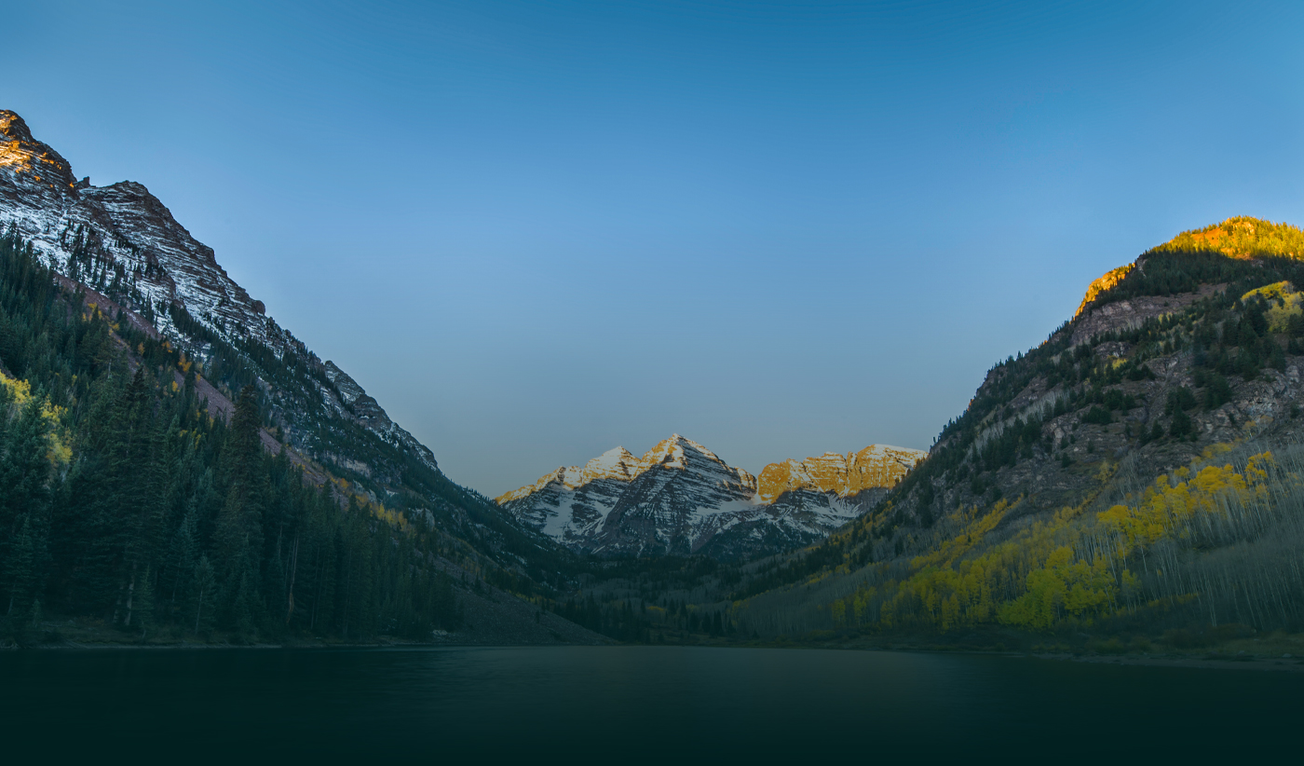
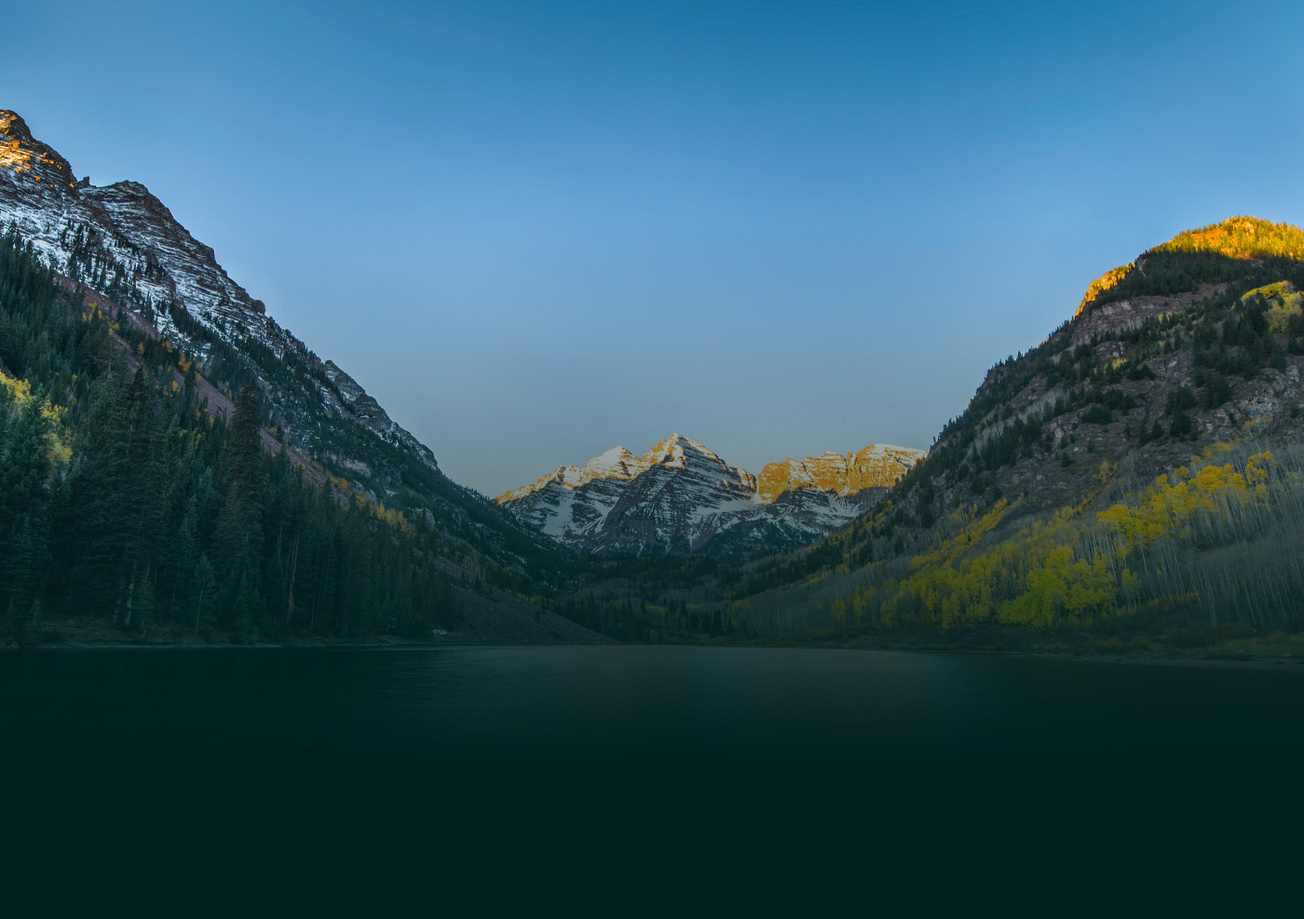
push

Changed region(s): [[0.0, 0.1217, 1.0, 0.882], [0.1536, 0.6083, 0.1843, 0.6691]]

diff --git a/wp-content/themes/fang/style.css b/wp-content/themes/fang/style.css
@@ -1,3 +1,3 @@
 /*! Css Main Stylesheet isn't meant to update, please use the scss partials in /scss *//*! Theme Name:Starter
-		Author: Garrett Cullen */*{margin:0;padding:0;outline:none}a{outline:none}a img{border:none}textarea{resize:none}*,*:before,*:after{box-sizing:border-box}html{-webkit-text-size-adjust:100%}body{-webkit-font-smoothing:antialiased;-moz-osx-font-smoothing:grayscale;text-shadow:1px 1px 1px rgba(0,0,0,0.05);line-height:1}body .gform_wrapper .gform_validation_container{display:none}.validation_error{display:none}body img.gform_ajax_spinner{display:none !important}header,section,nav,footer{display:block}section{z-index:1;position:relative}input,textarea{-webkit-appearance:none;border-radius:0}.slick-slider{position:relative;display:block;box-sizing:border-box;-webkit-user-select:none;-moz-user-select:none;-ms-user-select:none;user-select:none;-webkit-touch-callout:none;-khtml-user-select:none;touch-action:pan-y;-webkit-tap-highlight-color:transparent}.slick-list{position:relative;display:block;overflow:hidden;margin:0;padding:0}.slick-list:focus{outline:none}.slick-list.dragging{cursor:pointer;cursor:hand}.slick-slider .slick-track,.slick-slider .slick-list{-webkit-transform:translate3d(0, 0, 0);transform:translate3d(0, 0, 0)}.slick-track{position:relative;top:0;left:0;display:block;margin-left:auto;margin-right:auto}.slick-track:before,.slick-track:after{display:table;content:''}.slick-track:after{clear:both}.slick-loading .slick-track{visibility:hidden}.slick-slide{display:none;float:left;height:100%;min-height:1px}[dir='rtl'] .slick-slide{float:right}.slick-slide img{display:block}.slick-slide.slick-loading img{display:none}.slick-slide.dragging img{pointer-events:none}.slick-initialized .slick-slide{display:block}.slick-loading .slick-slide{visibility:hidden}.slick-vertical .slick-slide{display:block;height:auto;border:1px solid transparent}.slick-arrow.slick-hidden{display:none}.slick-prev,.slick-next{font-size:0;line-height:0;position:absolute;top:50%;display:block;width:20px;height:20px;padding:0;-webkit-transform:translate(0, -50%);transform:translate(0, -50%);cursor:pointer;color:transparent;border:none;outline:none;background:transparent}.slick-prev:hover,.slick-prev:focus,.slick-next:hover,.slick-next:focus{color:transparent;outline:none;background:transparent}.slick-prev:hover:before,.slick-prev:focus:before,.slick-next:hover:before,.slick-next:focus:before{opacity:1}.slick-prev.slick-disabled:before,.slick-next.slick-disabled:before{opacity:.25}.slick-prev:before,.slick-next:before{font-family:arial;font-size:20px;line-height:1;opacity:.75;color:white;-webkit-font-smoothing:antialiased;-moz-osx-font-smoothing:grayscale}.slick-prev{left:-25px}[dir='rtl'] .slick-prev{right:-25px;left:auto}.slick-prev:before{content:'←'}[dir='rtl'] .slick-prev:before{content:'→'}.slick-next{right:-25px}[dir='rtl'] .slick-next{right:auto;left:-25px}.slick-next:before{content:'→'}[dir='rtl'] .slick-next:before{content:'←'}.slick-dotted.slick-slider{margin-bottom:0px}.slick-dots{position:absolute;bottom:-25px;display:block;width:100%;padding:0;margin:0;list-style:none;text-align:center}.slick-dots li{position:relative;display:inline-block;width:20px;height:20px;margin:0 5px;padding:0;cursor:pointer}.slick-dots li button{font-size:0;line-height:0;display:block;width:20px;height:20px;padding:5px;cursor:pointer;color:transparent;border:0;outline:none;background:transparent}.slick-dots li button:hover,.slick-dots li button:focus{outline:none}.slick-dots li button:hover:before,.slick-dots li button:focus:before{opacity:1}.slick-dots li button:before{font-family:arial;font-size:6px;line-height:20px;position:absolute;top:0;left:0;width:20px;height:20px;content:'•';text-align:center;opacity:.25;color:black;-webkit-font-smoothing:antialiased;-moz-osx-font-smoothing:grayscale}.slick-dots li.slick-active button:before{opacity:.75;color:black}.alignleft,img.alignleft{display:inline;float:left;margin-right:24px;margin-top:4px}.alignright,img.alignright{display:inline;float:right;margin-left:24px;margin-top:4px}.aligncenter,img.aligncenter{clear:both;display:block;margin-left:auto;margin-right:auto}img.alignleft,img.alignright,img.aligncenter{margin-bottom:12px;max-width:100%;height:auto}h1,h2,h3,h4{font-style:normal;font-weight:300}.gform_wrapper ul li ::-webkit-input-placeholder{color:#000}.gform_wrapper ul li ::-moz-placeholder{color:#000}.gform_wrapper ul li :-moz-placeholder{color:#000}.gform_wrapper ul li :-ms-input-placeholder{color:#000}.gform_wrapper ul li ::-moz-placeholder{opacity:1}a.button{background:#ff9d1f;font-family:"Raleway",sans-serif;text-decoration:none;color:#fff;text-transform:uppercase;display:inline-block;letter-spacing:0.12em;font-size:15px;font-weight:800;padding:32px 30px;transition:all 200ms ease-in-out}a.button:hover{background:#036e4a}.content{font-family:"Unna",serif;font-size:21px}.content p,.content ul,.content ol{line-height:32px;margin-bottom:32px}@media screen and (max-width: 1200px){a.button{font-size:12px;padding:27px 40px}}@media screen and (max-width: 767px){.alignleft,.alignright,.aligncenter,img.alignleft,img.alignright,img.aligncenter{margin:4px auto 0px;float:none;max-width:100%;height:auto}}header{position:absolute;top:0;left:0;z-index:5;padding:0 61px 0 50px;height:113px;display:flex;align-items:center;width:100%}.header_left{flex-basis:320px}.header_left a.logo{display:block;padding-top:4px}.header_left a.logo img{width:320px;height:42px}.header_right{flex-grow:1;display:flex;justify-content:flex-end}.header_right .free_consult{display:flex;align-items:center}.header_right .free_consult span.free_consult_title{text-transform:uppercase;font-family:"Raleway",sans-serif;font-weight:800;font-size:15px;letter-spacing:0.12em;color:#012d2d}.header_right .free_consult span.free_consult_title:after{content:"";display:inline-block;width:6px;height:6px;vertical-align:top;background:#ff9d1f;border-radius:50%;margin:4px 12px 0 15px}.header_right .free_consult a.phone{color:#fff;text-decoration:none;font-family:"Unna",serif;font-size:38px;margin-right:31px}.header_right .menu_wrapper{margin-top:24px}.mobile_bar{display:none}.menu_wrapper{width:42px}.menu_wrapper span{display:block}.menu_wrapper span.menu_bar{width:100%;height:3px;background:#ffbe3d;margin-bottom:8px}.menu_wrapper span.menu_bar:last-of-type{margin-bottom:0}.menu_wrapper span.menu_title{color:#fff;text-transform:uppercase;font-family:"Raleway",sans-serif;font-weight:800;font-size:12px;letter-spacing:0.12em}@media screen and (max-width: 1450px){header{padding:0 50px}.header_left a.logo{margin-top:15px}}@media screen and (max-width: 1066px){header{padding:0 35px}.header_left a.logo{margin-top:0}.header_right .free_consult{flex-direction:column;align-items:flex-end;margin-right:29px}.header_right .free_consult span.free_consult_title:after{display:none}.header_right .free_consult a.phone{font-size:33px;margin-right:0;margin-top:2px}.header_right .menu_wrapper{margin:0}}@media screen and (max-width: 767px){header{height:auto;background:#001f1f;padding:0;flex-wrap:wrap;position:static}.header_left,.header_right{height:81px}.header_left{flex-basis:calc(100% - 62px);flex-grow:0;display:flex;align-items:center;padding-left:20px}.header_left a.logo{display:block}.header_left a.logo img{height:auto;width:100%;max-width:295px;padding-right:20px}.header_right{flex-basis:40px;padding-right:20px;align-items:center;flex-grow:0}.header_right .free_consult{display:none}.mobile_bar{display:flex;height:70px;flex-basis:100%;background:#fff;justify-content:center;align-items:center;padding:0 10px}.mobile_bar span.free_consult_title{text-transform:uppercase;color:#036e4a;font-size:13px;letter-spacing:0.12em;font-family:"Raleway",sans-serif;font-weight:800;display:block;margin-top:2px}.mobile_bar span.free_consult_title:after{content:"";display:inline-block;width:6px;height:6px;vertical-align:top;background:#ff9d1f;border-radius:50%;margin:4px 5px}.mobile_bar a.phone{text-decoration:none;font-size:35px;color:#001f1f;font-family:"Unna",serif;display:block}}@media screen and (max-width: 399px){.mobile_bar span.free_consult_title{display:none}}#section_one{background:#fff;height:985px;z-index:0;padding-left:50px;padding-right:50px}.sec_one_inner{text-align:center;position:relative;z-index:3;padding:157px 0 0}.sec_one_inner span{color:#fff;display:block}.sec_one_inner span.small_header{font-family:"Unna",serif;font-weight:400;font-size:36px;letter-spacing:0.04em}.sec_one_inner span.large_header{font-family:"Raleway",sans-serif;font-weight:800;font-size:150px;text-transform:uppercase;margin:17px 0 25px}.sec_one_inner img.mouse{display:block;margin:35px auto 0}.parallax{overflow:hidden;position:absolute;top:0;left:0;height:985px;width:100%}.layer{width:100%;height:985px;position:fixed;top:0;left:0}.layer_bg{background:url(/wp-content/themes/fang/images/hero_img_background_desktop.jpg) bottom center;background-size:cover}.layer_1{background:url(/wp-content/themes/fang/images/hero_img_middleground_desktop.png) bottom center;background-size:cover;z-index:1}.layer_2{background:url(/wp-content/themes/fang/images/hero_img_foreground_desktop.png) bottom center;background-size:cover;z-index:2}.sec_one_bottom{display:flex;justify-content:space-between;max-width:1650px;margin:78px auto 0}.sec_one_left{flex-basis:870px}.sec_one_slider{display:flex;justify-content:space-between;margin-top:146px}.sec_one_single_slide{text-align:left;flex-basis:45%}.sec_one_single_slide span{display:block}.sec_one_single_slide span.sec_one_slide_title{color:#ff9d1f;text-transform:uppercase;font-family:"Raleway",sans-serif;font-weight:900;font-size:17px;line-height:21px;letter-spacing:0.12em;margin-bottom:30px}.sec_one_single_slide span.sec_one_slide_title br{display:none}.sec_one_single_slide span.sec_one_slide_description{color:#fff;font-family:"Raleway",sans-serif;font-weight:400;letter-spacing:0.06em;line-height:24px}.sec_one_single_slide span.sec_one_slide_description strong{font-weight:700}.play_wrapper a{display:flex;align-items:center;text-decoration:none}.play_wrapper .learn_wrapper{margin-right:-20px;position:relative;z-index:2;margin-top:35px}.play_wrapper .learn_wrapper span.learn_title{font-family:"Raleway",sans-serif;font-weight:400;font-size:16px;font-weight:900;letter-spacing:0.14em;text-transform:uppercase;display:block;margin-bottom:7px;color:#fff}.play_wrapper .learn_wrapper img{width:230px;height:8px}.play_wrapper .learn_wrapper.mobile{display:none}.play_wrapper .play_button_wrapper{width:300px;height:300px;display:flex;justify-content:center;align-items:center;position:relative}.play_wrapper .play_button_wrapper:before{content:"";display:block;width:300px;height:300px;border-radius:50%;position:absolute;top:0;left:0;background:rgba(250,250,250,0.2);-webkit-transform:scale(1);transform:scale(1);box-shadow:0px 0px 60px 1px rgba(0,0,0,0.55)}.play_wrapper .play_button_wrapper .play_img_overlay{position:relative;z-index:1}.play_wrapper .play_button_wrapper .play_img_overlay img{border-radius:50%;box-shadow:0px 0px 22px 1px rgba(0,0,0,0.25)}.play_wrapper .play_button_wrapper .play_button{width:95px;height:95px;background:#fff;border-radius:50%;position:absolute;top:100px;left:100px;z-index:1;display:flex;justify-content:center;align-items:center}.play_wrapper .play_button_wrapper .play_button:before{content:"";display:block;border-top:8px solid transparent;border-bottom:8px solid transparent;border-left:11px solid #001f1f}a.button.mobile{display:none}@media screen and (max-width: 1540px){.sec_one_slider{margin-top:120px}.play_wrapper .play_button_wrapper{width:247px;height:247px}.play_wrapper .play_button_wrapper:before{width:247px;height:247px}.play_wrapper .play_button_wrapper .play_img_overlay img{width:200px;height:200px}.play_wrapper .play_button_wrapper .play_button{width:80px;height:80px;top:83px;left:83px}}@media screen and (max-width: 1450px){#section_one,.parallax,.layer{height:862px}.sec_one_inner{padding:142px 0 0}.sec_one_inner span.large_header{font-size:122px;margin:23px 0 27px}.sec_one_bottom{margin:42px auto 0;padding-left:4%}.sec_one_left{flex-basis:52%}.sec_one_slider{justify-content:flex-start;margin-top:111px}.sec_one_single_slide{flex-basis:41%}.sec_one_single_slide:first-of-type{margin-right:10%}.sec_one_single_slide span.sec_one_slide_title{margin-bottom:16px}.play_wrapper .learn_wrapper{margin-top:19px}}@media screen and (max-width: 1345px){#section_one,.parallax,.layer{height:872px}}@media screen and (max-width: 1200px){#section_one{background:url(/wp-content/themes/fang/images/1200.jpg) top center no-repeat;background-size:cover;height:987px;padding-left:0;padding-right:0}.parallax,.layer{display:none}.sec_one_inner{padding:150px 0 0}.sec_one_inner span.small_header{font-size:32px}.sec_one_inner span.large_header{font-size:95px;margin:11px 0 18px}.sec_one_inner img.mouse{display:none}.sec_one_bottom{flex-wrap:wrap;padding-left:70px;padding-right:70px;margin:100px auto 0;max-width:775px}.sec_one_left{order:2;flex-basis:100%}.sec_one_right{order:1;flex-basis:100%;display:flex;justify-content:center}.sec_one_slider{justify-content:space-between;margin-top:86px}.sec_one_single_slide{flex-basis:42%}.sec_one_single_slide:first-of-type{margin-right:0}.sec_one_single_slide span.sec_one_slide_title{max-width:240px}.sec_one_single_slide span.sec_one_slide_title br{display:inline-block}.play_wrapper a{position:relative}.play_wrapper .learn_wrapper.desktop{display:none}.play_wrapper .learn_wrapper.mobile{display:block;position:relative;overflow:hidden;position:absolute;top:90px}.play_wrapper .learn_wrapper.mobile span.learn_title{margin-bottom:20px}.play_wrapper .learn_wrapper.mobile img{width:151px;height:8px;position:absolute;bottom:0;left:-15px}.play_wrapper .learn_wrapper.mobile.one{left:-121px}.play_wrapper .learn_wrapper.mobile.two{right:-79px}.play_wrapper .learn_wrapper.mobile.two img{left:-24px}}@media screen and (max-width: 1130px){#section_one{z-index:2}}@media screen and (max-width: 1066px){#section_one{background:url(/wp-content/themes/fang/images/tablet-new.jpg) center center no-repeat;background-size:cover;height:987px}}@media screen and (max-width: 767px){.sec_one_inner{padding:43px 0 0}.sec_one_inner span.small_header{font-size:26px}.sec_one_inner span.large_header{font-size:75px;line-height:66px;max-width:360px;margin:11px auto 27px}a.button.desktop{display:none}a.button.mobile{display:inline-block;font-size:15px;padding:31px 40px}.sec_one_bottom{margin:79px auto 0}.play_wrapper{position:relative;right:-11px}.play_wrapper .learn_wrapper.mobile{top:65px}.play_wrapper .learn_wrapper.mobile span.learn_title{font-size:12px;margin-bottom:14px}.play_wrapper .learn_wrapper.mobile img{width:122px}.play_wrapper .learn_wrapper.mobile.one{left:-90px}.play_wrapper .learn_wrapper.mobile.two{right:-40px}.play_wrapper .play_button_wrapper{width:183px;height:183px}.play_wrapper .play_button_wrapper:before{width:183px;height:183px}.play_wrapper .play_button_wrapper .play_img_overlay img{width:146px;height:146px}.play_wrapper .play_button_wrapper .play_button{width:57px;height:57px;top:63px;left:63px}.play_wrapper .play_button_wrapper .play_button:before{border-top:6px solid transparent;border-bottom:6px solid transparent;border-left:10px solid #001f1f}.sec_one_left{flex-basis:auto;width:100%}.sec_one_slider{margin-top:63px;display:block;width:100%}.sec_one_slider .slick-dots{bottom:-35px}.sec_one_slider .slick-dots li.slick-active button:before{color:#ffbe3d}.sec_one_slider .slick-dots li:hover button:before{color:#ffbe3d}.sec_one_slider .slick-dots li{margin:0;width:18px}.sec_one_slider .slick-dots li button{width:18px}.sec_one_slider .slick-dots li button:before{width:18px;opacity:1;color:#fff;font-size:23px}.sec_one_single_slide{text-align:center}.sec_one_single_slide span.sec_one_slide_title{margin-left:auto;margin-right:auto;max-width:260px}.sec_one_single_slide span.sec_one_slide_description{max-width:293px;margin-left:auto;margin-right:auto}.sec_one_bottom{padding-left:20px;padding-right:20px}}@media screen and (max-width: 690px){#section_one{background:url(/wp-content/themes/fang/images/mobile-bg.jpg) center center no-repeat;background-size:cover;height:862px}}@media screen and (max-width: 399px){a.button.mobile{padding:25px 12px;font-size:13px}}@media screen and (max-width: 365px){.play_wrapper .learn_wrapper.mobile{display:none}}#section_two{position:relative;overflow:hidden}#section_two .sec_two_bg{position:absolute;top:0;left:0;width:100%;height:100%;background:url(/wp-content/themes/fang/images/hero_img_background_desktop.jpg) top center;background-size:cover;background-attachment:fixed}.sec_two_inner{height:1148px;width:100%;background:url(/wp-content/themes/fang/images/content01_top_img_desktop.png) top center;background-size:cover;position:relative;z-index:1}.sec_two_content{max-width:1555px;margin:0px auto 0;padding:334px 70px 0;color:#fff}.sec_two_content h1{color:#fff;font-size:102px;line-height:82px;font-family:"Unna",serif;max-width:760px}.sec_two_content .sec_two_content_svg{margin:40px 0 75px}.sec_two_content .sec_two_content_svg svg{width:118px;height:23px}.sec_two_inner_content{max-width:765px}.sec_two_topog{position:absolute;bottom:-300px;right:-300px;z-index:1}.sec_two_topog svg{width:900px;height:915px}@media screen and (max-width: 1450px){.sec_two_inner{background:url(/wp-content/themes/fang/images/content01_top_img_laptop.png) top right;background-size:cover;height:1077px}.sec_two_content{max-width:1214px;padding:293px 70px 0}.sec_two_content .sec_two_content_svg{margin:40px 0 65px}.sec_two_topog{bottom:-277px;right:-282px}.sec_two_topog svg{width:840px;height:860px}.sec_two_inner_content{max-width:636px}}@media screen and (max-width: 1130px){#section_two{margin-top:-90px;overflow:hidden}#section_two .sec_two_bg{background:url(/wp-content/themes/fang/images/content01_bottom_img_tablet.jpg) top right no-repeat}.sec_two_inner{background:url(/wp-content/themes/fang/images/content01_top_img_tablet_two.png) top right;background-size:cover;height:1003px}.sec_two_content{padding:342px 70px 0;max-width:768px}.sec_two_content h1{font-size:76px;line-height:61px}.sec_two_content .sec_two_content_svg{margin:40px 0 23px}.sec_two_inner_content{position:relative;z-index:2}.sec_two_topog{bottom:-275px;right:-290px}.sec_two_topog svg{width:675px;height:675px}}@media screen and (max-width: 925px){.sec_two_inner{background:url(/wp-content/themes/fang/images/925.png) top right}}@media screen and (max-width: 815px){.sec_two_inner{background:url(/wp-content/themes/fang/images/content01_top_img_tablet.png) top right;background-size:cover}}#section_three{width:100%;height:1000px;background:#fff}
+		Author: Garrett Cullen */*{margin:0;padding:0;outline:none}a{outline:none}a img{border:none}textarea{resize:none}*,*:before,*:after{box-sizing:border-box}html{-webkit-text-size-adjust:100%}body{-webkit-font-smoothing:antialiased;-moz-osx-font-smoothing:grayscale;text-shadow:1px 1px 1px rgba(0,0,0,0.05);line-height:1}body .gform_wrapper .gform_validation_container{display:none}.validation_error{display:none}body img.gform_ajax_spinner{display:none !important}header,section,nav,footer{display:block}section{z-index:1;position:relative}input,textarea{-webkit-appearance:none;border-radius:0}.slick-slider{position:relative;display:block;box-sizing:border-box;-webkit-user-select:none;-moz-user-select:none;-ms-user-select:none;user-select:none;-webkit-touch-callout:none;-khtml-user-select:none;touch-action:pan-y;-webkit-tap-highlight-color:transparent}.slick-list{position:relative;display:block;overflow:hidden;margin:0;padding:0}.slick-list:focus{outline:none}.slick-list.dragging{cursor:pointer;cursor:hand}.slick-slider .slick-track,.slick-slider .slick-list{-webkit-transform:translate3d(0, 0, 0);transform:translate3d(0, 0, 0)}.slick-track{position:relative;top:0;left:0;display:block;margin-left:auto;margin-right:auto}.slick-track:before,.slick-track:after{display:table;content:''}.slick-track:after{clear:both}.slick-loading .slick-track{visibility:hidden}.slick-slide{display:none;float:left;height:100%;min-height:1px}[dir='rtl'] .slick-slide{float:right}.slick-slide img{display:block}.slick-slide.slick-loading img{display:none}.slick-slide.dragging img{pointer-events:none}.slick-initialized .slick-slide{display:block}.slick-loading .slick-slide{visibility:hidden}.slick-vertical .slick-slide{display:block;height:auto;border:1px solid transparent}.slick-arrow.slick-hidden{display:none}.slick-prev,.slick-next{font-size:0;line-height:0;position:absolute;top:50%;display:block;width:20px;height:20px;padding:0;-webkit-transform:translate(0, -50%);transform:translate(0, -50%);cursor:pointer;color:transparent;border:none;outline:none;background:transparent}.slick-prev:hover,.slick-prev:focus,.slick-next:hover,.slick-next:focus{color:transparent;outline:none;background:transparent}.slick-prev:hover:before,.slick-prev:focus:before,.slick-next:hover:before,.slick-next:focus:before{opacity:1}.slick-prev.slick-disabled:before,.slick-next.slick-disabled:before{opacity:.25}.slick-prev:before,.slick-next:before{font-family:arial;font-size:20px;line-height:1;opacity:.75;color:white;-webkit-font-smoothing:antialiased;-moz-osx-font-smoothing:grayscale}.slick-prev{left:-25px}[dir='rtl'] .slick-prev{right:-25px;left:auto}.slick-prev:before{content:'←'}[dir='rtl'] .slick-prev:before{content:'→'}.slick-next{right:-25px}[dir='rtl'] .slick-next{right:auto;left:-25px}.slick-next:before{content:'→'}[dir='rtl'] .slick-next:before{content:'←'}.slick-dotted.slick-slider{margin-bottom:0px}.slick-dots{position:absolute;bottom:-25px;display:block;width:100%;padding:0;margin:0;list-style:none;text-align:center}.slick-dots li{position:relative;display:inline-block;width:20px;height:20px;margin:0 5px;padding:0;cursor:pointer}.slick-dots li button{font-size:0;line-height:0;display:block;width:20px;height:20px;padding:5px;cursor:pointer;color:transparent;border:0;outline:none;background:transparent}.slick-dots li button:hover,.slick-dots li button:focus{outline:none}.slick-dots li button:hover:before,.slick-dots li button:focus:before{opacity:1}.slick-dots li button:before{font-family:arial;font-size:6px;line-height:20px;position:absolute;top:0;left:0;width:20px;height:20px;content:'•';text-align:center;opacity:.25;color:black;-webkit-font-smoothing:antialiased;-moz-osx-font-smoothing:grayscale}.slick-dots li.slick-active button:before{opacity:.75;color:black}.alignleft,img.alignleft{display:inline;float:left;margin-right:24px;margin-top:4px}.alignright,img.alignright{display:inline;float:right;margin-left:24px;margin-top:4px}.aligncenter,img.aligncenter{clear:both;display:block;margin-left:auto;margin-right:auto}img.alignleft,img.alignright,img.aligncenter{margin-bottom:12px;max-width:100%;height:auto}h1,h2,h3,h4{font-style:normal;font-weight:300}.gform_wrapper ul li ::-webkit-input-placeholder{color:#000}.gform_wrapper ul li ::-moz-placeholder{color:#000}.gform_wrapper ul li :-moz-placeholder{color:#000}.gform_wrapper ul li :-ms-input-placeholder{color:#000}.gform_wrapper ul li ::-moz-placeholder{opacity:1}a.button{background:#ff9d1f;font-family:"Raleway",sans-serif;text-decoration:none;color:#fff;text-transform:uppercase;display:inline-block;letter-spacing:0.12em;font-size:15px;font-weight:800;padding:32px 30px;transition:all 200ms ease-in-out}a.button:hover{background:#036e4a}.content{font-family:"Unna",serif;font-size:21px}.content p,.content ul,.content ol{line-height:32px;margin-bottom:32px}@media screen and (max-width: 1200px){a.button{font-size:12px;padding:27px 40px}}@media screen and (max-width: 767px){.alignleft,.alignright,.aligncenter,img.alignleft,img.alignright,img.aligncenter{margin:4px auto 0px;float:none;max-width:100%;height:auto}}header{position:absolute;top:0;left:0;z-index:5;padding:0 61px 0 50px;height:113px;display:flex;align-items:center;width:100%}.header_left{flex-basis:320px}.header_left a.logo{display:block;padding-top:4px}.header_left a.logo img{width:320px;height:42px}.header_right{flex-grow:1;display:flex;justify-content:flex-end}.header_right .free_consult{display:flex;align-items:center}.header_right .free_consult span.free_consult_title{text-transform:uppercase;font-family:"Raleway",sans-serif;font-weight:800;font-size:15px;letter-spacing:0.12em;color:#012d2d}.header_right .free_consult span.free_consult_title:after{content:"";display:inline-block;width:6px;height:6px;vertical-align:top;background:#ff9d1f;border-radius:50%;margin:4px 12px 0 15px}.header_right .free_consult a.phone{color:#fff;text-decoration:none;font-family:"Unna",serif;font-size:38px;margin-right:31px}.header_right .menu_wrapper{margin-top:24px}.mobile_bar{display:none}.menu_wrapper{width:42px}.menu_wrapper span{display:block}.menu_wrapper span.menu_bar{width:100%;height:3px;background:#ffbe3d;margin-bottom:8px}.menu_wrapper span.menu_bar:last-of-type{margin-bottom:0}.menu_wrapper span.menu_title{color:#fff;text-transform:uppercase;font-family:"Raleway",sans-serif;font-weight:800;font-size:12px;letter-spacing:0.12em}@media screen and (max-width: 1450px){header{padding:0 50px}.header_left a.logo{margin-top:15px}}@media screen and (max-width: 1066px){header{padding:0 35px}.header_left a.logo{margin-top:0}.header_right .free_consult{flex-direction:column;align-items:flex-end;margin-right:29px}.header_right .free_consult span.free_consult_title:after{display:none}.header_right .free_consult a.phone{font-size:33px;margin-right:0;margin-top:2px}.header_right .menu_wrapper{margin:0}}@media screen and (max-width: 767px){header{height:auto;background:#001f1f;padding:0;flex-wrap:wrap;position:static}.header_left,.header_right{height:81px}.header_left{flex-basis:calc(100% - 62px);flex-grow:0;display:flex;align-items:center;padding-left:20px}.header_left a.logo{display:block}.header_left a.logo img{height:auto;width:100%;max-width:295px;padding-right:20px}.header_right{flex-basis:40px;padding-right:20px;align-items:center;flex-grow:0}.header_right .free_consult{display:none}.mobile_bar{display:flex;height:70px;flex-basis:100%;background:#fff;justify-content:center;align-items:center;padding:0 10px}.mobile_bar span.free_consult_title{text-transform:uppercase;color:#036e4a;font-size:13px;letter-spacing:0.12em;font-family:"Raleway",sans-serif;font-weight:800;display:block;margin-top:2px}.mobile_bar span.free_consult_title:after{content:"";display:inline-block;width:6px;height:6px;vertical-align:top;background:#ff9d1f;border-radius:50%;margin:4px 5px}.mobile_bar a.phone{text-decoration:none;font-size:35px;color:#001f1f;font-family:"Unna",serif;display:block}}@media screen and (max-width: 399px){.mobile_bar span.free_consult_title{display:none}}#section_one{background:#fff;height:985px;z-index:0;padding-left:50px;padding-right:50px}.sec_one_inner{text-align:center;position:relative;z-index:3;padding:157px 0 0}.sec_one_inner span{color:#fff;display:block}.sec_one_inner span.small_header{font-family:"Unna",serif;font-weight:400;font-size:36px;letter-spacing:0.04em}.sec_one_inner span.large_header{font-family:"Raleway",sans-serif;font-weight:800;font-size:150px;text-transform:uppercase;margin:17px 0 25px}.sec_one_inner img.mouse{display:block;margin:35px auto 0}.parallax{overflow:hidden;position:absolute;top:0;left:0;height:985px;width:100%}.layer{width:100%;height:985px;position:fixed;top:0;left:0}.layer_bg{background:url(/wp-content/themes/fang/images/sec_one_bg.jpg) top center}.layer_1{background:url(/wp-content/themes/fang/images/sec_one_middle.png) top center;z-index:1}.layer_2{background:url(/wp-content/themes/fang/images/sec_one_fore.png) top center;z-index:2}.sec_one_bottom{display:flex;justify-content:space-between;max-width:1650px;margin:78px auto 0}.sec_one_left{flex-basis:870px}.sec_one_slider{display:flex;justify-content:space-between;margin-top:146px}.sec_one_single_slide{text-align:left;flex-basis:45%}.sec_one_single_slide span{display:block}.sec_one_single_slide span.sec_one_slide_title{color:#ff9d1f;text-transform:uppercase;font-family:"Raleway",sans-serif;font-weight:900;font-size:17px;line-height:21px;letter-spacing:0.12em;margin-bottom:30px}.sec_one_single_slide span.sec_one_slide_title br{display:none}.sec_one_single_slide span.sec_one_slide_description{color:#fff;font-family:"Raleway",sans-serif;font-weight:400;letter-spacing:0.06em;line-height:24px}.sec_one_single_slide span.sec_one_slide_description strong{font-weight:700}.play_wrapper a{display:flex;align-items:center;text-decoration:none}.play_wrapper .learn_wrapper{margin-right:-20px;position:relative;z-index:2;margin-top:35px}.play_wrapper .learn_wrapper span.learn_title{font-family:"Raleway",sans-serif;font-weight:400;font-size:16px;font-weight:900;letter-spacing:0.14em;text-transform:uppercase;display:block;margin-bottom:7px;color:#fff}.play_wrapper .learn_wrapper img{width:230px;height:8px}.play_wrapper .learn_wrapper.mobile{display:none}.play_wrapper .play_button_wrapper{width:300px;height:300px;display:flex;justify-content:center;align-items:center;position:relative}.play_wrapper .play_button_wrapper:before{content:"";display:block;width:300px;height:300px;border-radius:50%;position:absolute;top:0;left:0;background:rgba(250,250,250,0.2);-webkit-transform:scale(1);transform:scale(1);box-shadow:0px 0px 60px 1px rgba(0,0,0,0.55)}.play_wrapper .play_button_wrapper .play_img_overlay{position:relative;z-index:1}.play_wrapper .play_button_wrapper .play_img_overlay img{border-radius:50%;box-shadow:0px 0px 22px 1px rgba(0,0,0,0.25)}.play_wrapper .play_button_wrapper .play_button{width:95px;height:95px;background:#fff;border-radius:50%;position:absolute;top:100px;left:100px;z-index:1;display:flex;justify-content:center;align-items:center}.play_wrapper .play_button_wrapper .play_button:before{content:"";display:block;border-top:8px solid transparent;border-bottom:8px solid transparent;border-left:11px solid #001f1f}a.button.mobile{display:none}@media screen and (max-width: 1540px){.sec_one_slider{margin-top:120px}.play_wrapper .play_button_wrapper{width:247px;height:247px}.play_wrapper .play_button_wrapper:before{width:247px;height:247px}.play_wrapper .play_button_wrapper .play_img_overlay img{width:200px;height:200px}.play_wrapper .play_button_wrapper .play_button{width:80px;height:80px;top:83px;left:83px}}@media screen and (max-width: 1450px){.sec_one_inner{padding:142px 0 0}.sec_one_inner span.large_header{font-size:122px;margin:23px 0 27px}.sec_one_bottom{margin:42px auto 0;padding-left:4%}.sec_one_left{flex-basis:52%}.sec_one_slider{justify-content:flex-start;margin-top:111px}.sec_one_single_slide{flex-basis:41%}.sec_one_single_slide:first-of-type{margin-right:10%}.sec_one_single_slide span.sec_one_slide_title{margin-bottom:16px}.play_wrapper .learn_wrapper{margin-top:19px}}@media screen and (max-width: 1345px){#section_one,.parallax,.layer{height:872px}}@media screen and (max-width: 1200px){#section_one{padding-left:0;padding-right:0}#section_one,.parallax,.layer{height:910px}.layer_bg{background:url(/wp-content/themes/fang/images/new-tablet-bg.jpg) top center;background-size:cover}.layer_1{background:url(/wp-content/themes/fang/images/new-tablet-middle.png) top center;background-size:cover}.layer_2{background:url(/wp-content/themes/fang/images/new-tablet-foreground.png) top center;background-size:cover}.sec_one_inner{padding:150px 0 0}.sec_one_inner span.small_header{font-size:32px}.sec_one_inner span.large_header{font-size:95px;margin:11px 0 18px}.sec_one_inner img.mouse{display:none}.sec_one_bottom{flex-wrap:wrap;padding-left:70px;padding-right:70px;margin:100px auto 0;max-width:775px}.sec_one_left{order:2;flex-basis:100%}.sec_one_right{order:1;flex-basis:100%;display:flex;justify-content:center}.sec_one_slider{justify-content:space-between;margin-top:86px}.sec_one_single_slide{flex-basis:42%}.sec_one_single_slide:first-of-type{margin-right:0}.sec_one_single_slide span.sec_one_slide_title{max-width:240px}.sec_one_single_slide span.sec_one_slide_title br{display:inline-block}.play_wrapper a{position:relative}.play_wrapper .learn_wrapper.desktop{display:none}.play_wrapper .learn_wrapper.mobile{display:block;position:relative;overflow:hidden;position:absolute;top:90px}.play_wrapper .learn_wrapper.mobile span.learn_title{margin-bottom:20px}.play_wrapper .learn_wrapper.mobile img{width:151px;height:8px;position:absolute;bottom:0;left:-15px}.play_wrapper .learn_wrapper.mobile.one{left:-121px}.play_wrapper .learn_wrapper.mobile.two{right:-79px}.play_wrapper .learn_wrapper.mobile.two img{left:-24px}}@media screen and (max-width: 1066px){#section_one{background:url(/wp-content/themes/fang/images/tablet-new.jpg) center center no-repeat;background-size:cover;height:987px}}@media screen and (max-width: 767px){.sec_one_inner{padding:43px 0 0}.sec_one_inner span.small_header{font-size:26px}.sec_one_inner span.large_header{font-size:75px;line-height:66px;max-width:360px;margin:11px auto 27px}a.button.desktop{display:none}a.button.mobile{display:inline-block;font-size:15px;padding:31px 40px}.sec_one_bottom{margin:79px auto 0}.play_wrapper{position:relative;right:-11px}.play_wrapper .learn_wrapper.mobile{top:65px}.play_wrapper .learn_wrapper.mobile span.learn_title{font-size:12px;margin-bottom:14px}.play_wrapper .learn_wrapper.mobile img{width:122px}.play_wrapper .learn_wrapper.mobile.one{left:-90px}.play_wrapper .learn_wrapper.mobile.two{right:-40px}.play_wrapper .play_button_wrapper{width:183px;height:183px}.play_wrapper .play_button_wrapper:before{width:183px;height:183px}.play_wrapper .play_button_wrapper .play_img_overlay img{width:146px;height:146px}.play_wrapper .play_button_wrapper .play_button{width:57px;height:57px;top:63px;left:63px}.play_wrapper .play_button_wrapper .play_button:before{border-top:6px solid transparent;border-bottom:6px solid transparent;border-left:10px solid #001f1f}.sec_one_left{flex-basis:auto;width:100%}.sec_one_slider{margin-top:63px;display:block;width:100%}.sec_one_slider .slick-dots{bottom:-35px}.sec_one_slider .slick-dots li.slick-active button:before{color:#ffbe3d}.sec_one_slider .slick-dots li:hover button:before{color:#ffbe3d}.sec_one_slider .slick-dots li{margin:0;width:18px}.sec_one_slider .slick-dots li button{width:18px}.sec_one_slider .slick-dots li button:before{width:18px;opacity:1;color:#fff;font-size:23px}.sec_one_single_slide{text-align:center}.sec_one_single_slide span.sec_one_slide_title{margin-left:auto;margin-right:auto;max-width:260px}.sec_one_single_slide span.sec_one_slide_description{max-width:293px;margin-left:auto;margin-right:auto}.sec_one_bottom{padding-left:20px;padding-right:20px}}@media screen and (max-width: 690px){#section_one{background:url(/wp-content/themes/fang/images/mobile-bg.jpg) center center no-repeat;background-size:cover;height:862px}}@media screen and (max-width: 399px){a.button.mobile{padding:25px 12px;font-size:13px}}@media screen and (max-width: 365px){.play_wrapper .learn_wrapper.mobile{display:none}}#section_two{position:relative;overflow:hidden}#section_two .sec_two_bg{position:absolute;top:0;left:0;width:100%;height:100%;background:url(/wp-content/themes/fang/images/hero_img_background_desktop.jpg) top center;background-size:cover;background-attachment:fixed}.sec_two_inner{height:1148px;width:100%;background:url(/wp-content/themes/fang/images/content01_top_img_desktop.png) top center;background-size:cover;position:relative;z-index:1}.sec_two_content{max-width:1555px;margin:0px auto 0;padding:334px 70px 0;color:#fff}.sec_two_content h1{color:#fff;font-size:102px;line-height:82px;font-family:"Unna",serif;max-width:760px}.sec_two_content .sec_two_content_svg{margin:40px 0 75px}.sec_two_content .sec_two_content_svg svg{width:118px;height:23px}.sec_two_inner_content{max-width:765px}.sec_two_topog{position:absolute;bottom:-300px;right:-300px;z-index:1}.sec_two_topog svg{width:900px;height:915px}@media screen and (max-width: 1450px){.sec_two_inner{background:url(/wp-content/themes/fang/images/content01_top_img_laptop.png) top right;background-size:cover;height:1077px}.sec_two_content{max-width:1214px;padding:293px 70px 0}.sec_two_content .sec_two_content_svg{margin:40px 0 65px}.sec_two_topog{bottom:-277px;right:-282px}.sec_two_topog svg{width:840px;height:860px}.sec_two_inner_content{max-width:636px}}@media screen and (max-width: 1130px){#section_two{overflow:hidden}#section_two .sec_two_bg{background:url(/wp-content/themes/fang/images/content01_bottom_img_tablet.jpg) top right no-repeat}.sec_two_inner{background:url(/wp-content/themes/fang/images/content01_top_img_tablet_two.png) top right;background-size:cover;height:1003px}.sec_two_content{padding:342px 70px 0;max-width:768px}.sec_two_content h1{font-size:76px;line-height:61px}.sec_two_content .sec_two_content_svg{margin:40px 0 23px}.sec_two_inner_content{position:relative;z-index:2}.sec_two_topog{bottom:-275px;right:-290px}.sec_two_topog svg{width:675px;height:675px}}@media screen and (max-width: 925px){.sec_two_inner{background:url(/wp-content/themes/fang/images/925.png) top right}}@media screen and (max-width: 815px){.sec_two_inner{background:url(/wp-content/themes/fang/images/content01_top_img_tablet.png) top right;background-size:cover}}#section_three{width:100%;height:1000px;background:#fff}
 /*# sourceMappingURL=style.css.map */

diff --git a/wp-content/themes/fang/scss/homepage/_section_one copy.scss b/wp-content/themes/fang/scss/homepage/_section_one copy.scss
@@ -56,20 +56,20 @@
 
 
 .layer_bg {
-	background: url(#{$themePath}images/sec_one_bg.jpg) top center;
-	//background-size:cover;
+	background: url(#{$themePath}images/hero_img_background_desktop.jpg) bottom center;
+	background-size:cover;
 }
 
 
 .layer_1 {
-	background: url(#{$themePath}images/sec_one_middle.png) top center;
-	//background-size:cover;
+	background: url(#{$themePath}images/hero_img_middleground_desktop.png) bottom center;
+	background-size:cover;
 	z-index:1;
 }
 
 .layer_2 {
-	background: url(#{$themePath}images/sec_one_fore.png) top center;
-	//background-size:cover;
+	background: url(#{$themePath}images/hero_img_foreground_desktop.png) bottom center;
+	background-size:cover;
 	z-index:2;
 }
 
@@ -277,14 +277,11 @@ a.button.mobile {
 	
 	
 	#section_one, .parallax, .layer {
-		//height:822px;
+		height:822px;
 	}
 	
-
 	
 	
-
-/*
 	.layer_bg {
 		background: url(#{$themePath}images/laptop-test.jpg) top center;
 		background-size:cover;
@@ -299,9 +296,7 @@ a.button.mobile {
 		background: url(#{$themePath}images/hero_img_foreground_laptop.png) top center;
 		background-size:cover;
 	}
-*/
 	
-
 	
 	
 	.sec_one_inner {

diff --git a/wp-content/themes/fang/scss/homepage/_section_two.scss b/wp-content/themes/fang/scss/homepage/_section_two.scss
@@ -112,11 +112,11 @@
 	
 	
 	#section_two {
-		margin-top:-90px;
+		//margin-top:-90px;
 		overflow: hidden;
 		.sec_two_bg {
 			background: url(#{$themePath}images/content01_bottom_img_tablet.jpg)  top right no-repeat;
-		
+			//background-attachment: fixed;
 		}
 	}
 	
